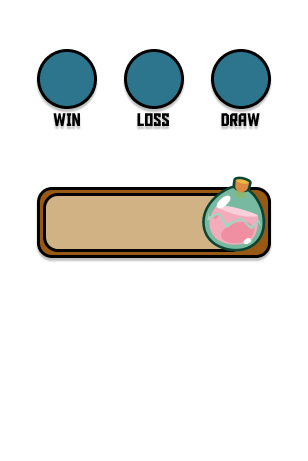
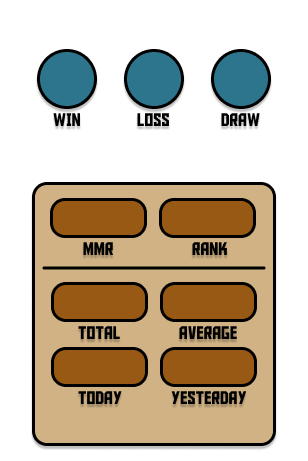
Initial API integration

diff --git a/app.py b/app.py
@@ -200,93 +200,20 @@ tab2_draw_minus_button.place(x = 209, y = 130, width = 30, height = 33)
 tab2_draw_plus_button = CustomButton.lambda_button(tab2, tab2_plus_button_img, t2.add_to_counter, tab2_canvas, tab2_text_tags['draw'], tab2_text_tags)
 tab2_draw_plus_button.place(x = 243, y = 130, width = 30, height = 32)
 
-# Tab2 Calculator Screen
-tab2_text_tags["calc"] = Entry(
-    tab2,
-    bd = 0,
-    bg = "#d0b285",
-    highlightthickness = 0,
-    font = (default_font, int(25.0)))
+tab2_update_button_img = PhotoImage(master=tab2, file = f"./resources/images/buttons/update_button.png")
+tab2_update_button = CustomButton.normal_button(tab2, tab2_update_button_img, t2.update_data)
+# img1 = PhotoImage(file = f"img1.png")
+# b1 = Button(
+#     image = img1,
+#     borderwidth = 0,
+#     highlightthickness = 0,
+#     command = btn_clicked,
+#     relief = "flat")
 
-tab2_text_tags["calc"].place(
-    x = 49, y = 203,
-    width = 151,
-    height = 38)
-
-# Tab2 0 Button
-tab2_calc_0_img = PhotoImage(master=tab2, file = f"./resources/images/buttons/calc_button_0.png")
-tab2_calc_0 = CustomButton.lambda_button(tab2, tab2_calc_0_img, t2.add_to_calc, "0", tab2_text_tags['calc'])
-tab2_calc_0.place(x = 112, y = 403, width = 40, height = 42)
-
-# Tab2 1 Button
-tab2_calc_1_img = PhotoImage(master=tab2, file = f"./resources/images/buttons/calc_button_1.png")
-tab2_calc_1 = CustomButton.lambda_button(tab2, tab2_calc_1_img, t2.add_to_calc, "1", tab2_text_tags['calc'])
-tab2_calc_1.place(x = 69, y = 359, width = 40, height = 42)
-
-# Tab2 2 Button
-tab2_calc_2_img = PhotoImage(master=tab2, file = f"./resources/images/buttons/calc_button_2.png")
-tab2_calc_2 = CustomButton.lambda_button(tab2, tab2_calc_2_img, t2.add_to_calc, "2", tab2_text_tags['calc'])
-tab2_calc_2.place(x = 112, y = 359, width = 40, height = 42)
-
-# Tab2 3 Button
-tab2_calc_3_img = PhotoImage(master=tab2, file = f"./resources/images/buttons/calc_button_3.png")
-tab2_calc_3 = CustomButton.lambda_button(tab2, tab2_calc_3_img, t2.add_to_calc, "3", tab2_text_tags['calc'])
-tab2_calc_3.place(x = 155, y = 359, width = 40, height = 42)
-
-# Tab2 4 Button
-tab2_calc_4_img = PhotoImage(master=tab2, file = f"./resources/images/buttons/calc_button_4.png")
-tab2_calc_4 = CustomButton.lambda_button(tab2, tab2_calc_4_img, t2.add_to_calc, "4", tab2_text_tags['calc'])
-tab2_calc_4.place(x = 69, y = 315, width = 40, height = 42)
-
-# Tab2 5 Button
-tab2_calc_5_img = PhotoImage(master=tab2, file = f"./resources/images/buttons/calc_button_5.png")
-tab2_calc_5 = CustomButton.lambda_button(tab2, tab2_calc_5_img, t2.add_to_calc, "5", tab2_text_tags['calc'])
-tab2_calc_5.place(x = 112, y = 315, width = 40, height = 42)
-
-# Tab2 6 Button
-tab2_calc_6_img = PhotoImage(master=tab2, file = f"./resources/images/buttons/calc_button_6.png")
-tab2_calc_6 = CustomButton.lambda_button(tab2, tab2_calc_6_img, t2.add_to_calc, "6", tab2_text_tags['calc'])
-tab2_calc_6.place(x = 155, y = 315, width = 40, height = 42)
-
-# Tab2 7 Button
-tab2_calc_7_img = PhotoImage(master=tab2, file = f"./resources/images/buttons/calc_button_7.png")
-tab2_calc_7 = CustomButton.lambda_button(tab2, tab2_calc_7_img, t2.add_to_calc, "7", tab2_text_tags['calc'])
-tab2_calc_7.place(x = 69, y = 271, width = 40, height = 42)
-
-# Tab2 8 Button
-tab2_calc_8_img = PhotoImage(master=tab2, file = f"./resources/images/buttons/calc_button_8.png")
-tab2_calc_8 = CustomButton.lambda_button(tab2, tab2_calc_8_img, t2.add_to_calc, "8", tab2_text_tags['calc'])
-tab2_calc_8.place(x = 112, y = 271, width = 40, height = 42)
-
-# Tab2 9 Button
-tab2_calc_9_img = PhotoImage(master=tab2, file = f"./resources/images/buttons/calc_button_9.png")
-tab2_calc_9 = CustomButton.lambda_button(tab2, tab2_calc_9_img, t2.add_to_calc, "9", tab2_text_tags['calc'])
-tab2_calc_9.place(x = 155, y = 271, width = 40, height = 42)
-
-# Tab2 Plus Button
-tab2_calc_plus_img = PhotoImage(master=tab2, file = f"./resources/images/buttons/calc_button_plus.png")
-tab2_calc_plus = CustomButton.lambda_button(tab2, tab2_calc_plus_img, t2.add_to_calc, "+", tab2_text_tags['calc'])
-tab2_calc_plus.place(x = 198, y = 359, width = 40, height = 86)
-
-# Tab2 Minus Button
-tab2_calc_minus_img = PhotoImage(master=tab2, file = f"./resources/images/buttons/calc_button_minus.png")
-tab2_calc_minus = CustomButton.lambda_button(tab2, tab2_calc_minus_img, t2.add_to_calc, "-", tab2_text_tags['calc'])
-tab2_calc_minus.place(x = 198, y = 315, width = 40, height = 42)
-
-# Tab2 Clear Button
-tab2_calc_clear_img = PhotoImage(master=tab2, file = f"./resources/images/buttons/calc_button_clear.png")
-tab2_calc_clear = CustomButton.lambda_button(tab2, tab2_calc_clear_img, t2.clear_calc, tab2_text_tags['calc'])
-tab2_calc_clear.place(x = 69, y = 403, width = 40, height = 42)
-
-# Tab2 Delete Button
-tab2_calc_del_img = PhotoImage(master=tab2, file = f"./resources/images/buttons/calc_button_del.png")
-tab2_calc_del = CustomButton.lambda_button(tab2, tab2_calc_del_img, t2.del_calc, tab2_text_tags['calc'])
-tab2_calc_del.place(x = 198, y = 271, width = 40, height = 42)
-
-# Tab2 Equals Button
-tab2_calc_equals_img = PhotoImage(master=tab2, file = f"./resources/images/buttons/calc_button_equals.png")
-tab2_calc_equals = CustomButton.lambda_button(tab2, tab2_calc_equals_img, t2.eval_calc, tab2_canvas, tab2_text_tags)
-tab2_calc_equals.place(x = 155, y = 403, width = 40, height = 42)
+tab2_update_button.place(
+    x = 137, y = 404,
+    width = 33,
+    height = 36)
 
 #####################################################################################################
 ################################## TAB 3 ############################################################

diff --git a/scripts/tab2.py b/scripts/tab2.py
@@ -1,6 +1,9 @@
 # Tab 2 Functions
 from tkinter import *
 from asteval import Interpreter
+from dotenv import load_dotenv
+load_dotenv()
+import requests
 import json
 
 aeval = Interpreter()
@@ -39,34 +42,35 @@ class Tab2:
         Tab2.tab2_save(canvas_arg, tab_tags_arg)
     
 
-    def add_to_calc(symbol, screen_arg):
-        screen_content = screen_arg.get()
-        if screen_content == "0" or screen_content == "None" or screen_content == "ERROR":
-            Tab2.clear_calc(screen_arg)
-        screen_arg.insert(END, symbol)
+    # def add_to_calc(symbol, screen_arg):
+    #     screen_content = screen_arg.get()
+    #     if screen_content == "0" or screen_content == "None" or screen_content == "ERROR":
+    #         Tab2.clear_calc(screen_arg)
+    #     screen_arg.insert(END, symbol)
     
 
-    def del_calc(screen_arg):
-        screen_content = screen_arg.get()
-        if screen_content != "":
-            # https://stackoverflow.com/questions/51733663/how-to-delete-single-character-from-entry-widget-tkinter/51733802
-            screen_arg.delete(len(screen_content)-1)
+    # def del_calc(screen_arg):
+    #     screen_content = screen_arg.get()
+    #     if screen_content != "":
+    #         # https://stackoverflow.com/questions/51733663/how-to-delete-single-character-from-entry-widget-tkinter/51733802
+    #         screen_arg.delete(len(screen_content)-1)
     
 
-    def clear_calc(screen_arg):
-        screen_arg.delete(0, END)
+    # def clear_calc(screen_arg):
+    #     pass
+    #     # screen_arg.delete(0, END)
     
 
-    def eval_calc(canvas_arg, tab_tags_arg):
-        screen_content = tab_tags_arg['calc'].get()
-        try:
-            tab2_calculation = str(aeval(screen_content))
-            Tab2.clear_calc(tab_tags_arg['calc'])
-            tab_tags_arg['calc'].insert(INSERT, tab2_calculation)
-        except:
-            Tab2.clear_calc(tab_tags_arg['calc'])
-            tab_tags_arg['calc'].insert(INSERT, "ERROR")
-        Tab2.tab2_save(canvas_arg, tab_tags_arg)
+    # def eval_calc(canvas_arg, tab_tags_arg):
+    #     screen_content = tab_tags_arg['calc'].get()
+    #     try:
+    #         tab2_calculation = str(aeval(screen_content))
+    #         Tab2.clear_calc(tab_tags_arg['calc'])
+    #         tab_tags_arg['calc'].insert(INSERT, tab2_calculation)
+    #     except:
+    #         Tab2.clear_calc(tab_tags_arg['calc'])
+    #         tab_tags_arg['calc'].insert(INSERT, "ERROR")
+    #     Tab2.tab2_save(canvas_arg, tab_tags_arg)
     
     
     def tab2_save(canvas_arg, tab_tags_arg):
@@ -90,5 +94,19 @@ class Tab2:
         canvas_arg.itemconfig(tab_tags_args['win'], text = data["win"])
         canvas_arg.itemconfig(tab_tags_args['loss'], text = data["loss"])
         canvas_arg.itemconfig(tab_tags_args['draw'], text = data["draw"])
-        Tab2.clear_calc(tab_tags_args['calc'])
-        tab_tags_args['calc'].insert(INSERT, str(data['slp']))
+        # Tab2.clear_calc(tab_tags_args['calc'])
+        # tab_tags_args['calc'].insert(INSERT, str(data['slp']))
+    
+
+    def update_data():
+        url = "https://axie-infinity.p.rapidapi.com/get-update/"
+        querystring = {"id":""}
+
+        headers = {
+            "X-RapidAPI-Host": "axie-infinity.p.rapidapi.com",
+            "X-RapidAPI-Key": ""
+        }
+
+        response = requests.request("GET", url, headers=headers, params=querystring)
+        print(response.text)
+        print(type(response.text))
